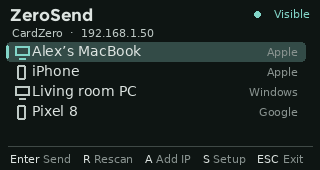
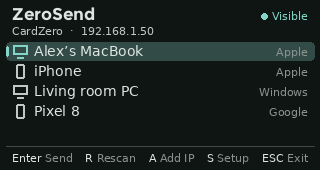
Align the UI to one grid
Text now sits on baselines and lines up by its ink edges: a 12/308 px
text margin, highlights, boxes and the footer rule on 6/314, row text and
right-hand details on one baseline, the status label on the title's
baseline with its dot centred on the capitals, icons centred in a 16 px
column, and footers with four or more hints spread to both margins.
Messages wrap at spaces. New screenshots and social preview.

diff --git a/app/app.py b/app/app.py
@@ -81,6 +81,10 @@ GREEN = ACCENT        # done / visible: LocalSend shows success in its primary c
 YELLOW = '#ffb74d'    # warnings (LocalSend uses orange)
 RED = '#ffb4ab'       # error
 VISIBLE = 5
+L, R = 12, 308              # text margins (ink edges)
+BOX_L, BOX_R = 6, 314      # highlights, boxes, footer rule
+ROW_TOP, ROW_H = 42, 20     # list rows
+FOOT = 162                 # footer baseline
 
 
 def log(*a):
@@ -953,19 +957,22 @@ class App:
                 self.fonts[key] = ImageFont.truetype(FONT, size)
         return self.fonts[key]
 
-    def text(self, d, xy, s, size=14, fill=FG, bold=False, max_width=None, anchor_right=False):
-        """Draw text; non-Latin text uses the CJK font, long text is shortened with …"""
+    def text(self, d, xy, s, size=14, fill=FG, bold=False, max_width=None, anchor_right=False, kind=None):
+        """Draw text on a baseline. xy is (left ink edge, baseline), or (right ink edge, baseline) with
+        anchor_right, so text lines up to the pixel with the grid whatever its first or last glyph.
+        Non-Latin text uses the CJK font, long text is shortened with …  Returns the ink width."""
         cjk = any(ord(c) > 0x2FF and not 0x2000 <= ord(c) <= 0x2BFF for c in s)
-        font = self.font('cjk', size) if cjk else self.font('bold' if bold else 'regular', size)
+        font = self.font('cjk', size) if cjk else self.font(kind or ('bold' if bold else 'regular'), size)
         if max_width is not None and d.textlength(s, font=font) > max_width:
             while s and d.textlength(s + '…', font=font) > max_width:
                 s = s[:-1]
             s += '…'
+        if not s:
+            return 0
+        x0, _, x1, _ = d.textbbox((0, 0), s, font=font, anchor='ls')
         x, y = xy
-        if anchor_right:
-            x -= d.textlength(s, font=font)
-        d.text((x, y - (2 if cjk else 0)), s, font=font, fill=fill)
-        return d.textlength(s, font=font)
+        d.text((x - x1 if anchor_right else x - x0, y), s, font=font, fill=fill, anchor='ls')
+        return x1 - x0
 
     def toast(self, text, colour=MUTED, seconds=4):
         self.message, self.message_colour = text, colour
@@ -978,66 +985,75 @@ class App:
         return self.addresses[0][1] if self.addresses else 'no Wi-Fi'
 
     # ---- drawing helpers
+    # Layout grid: all text runs between x = L and x = R (ink edges); highlights, boxes and the footer
+    # rule run between BOX_L and BOX_R; rows are ROW_H tall from ROW_TOP; every text sits on a baseline.
     def header(self, d, title, sub, status=None):
-        d.text((10, 4), title, font=self.font('title', 17), fill=FG)
+        status_w = 0
         if status:
             label, colour = status
-            w = d.textlength(label, font=self.font('regular', 11))
-            d.ellipse((300 - w - 10, 11, 300 - w - 4, 17), fill=colour)
-            d.text((310 - w, 7), label, font=self.font('regular', 11), fill=colour)
-        self.text(d, (12, 26), sub, size=11, fill=MUTED, max_width=296)
+            w = self.text(d, (R, 20), label, size=11, fill=colour, anchor_right=True)
+            cx = R - w - 8
+            d.ellipse((cx - 3, 13, cx + 3, 19), fill=colour)       # centred on the label's capitals
+            status_w = w + 14
+        self.text(d, (L, 20), title, size=17, kind='title', max_width=R - L - status_w - 12)
+        self.text(d, (L, 35), sub, size=11, fill=MUTED, max_width=R - L)
 
     def footer(self, d, keys):
-        d.line((8, 146, 312, 146), fill=RULE)
+        d.line((BOX_L, 146, BOX_R, 146), fill=RULE)
         if self.message and time.monotonic() < self.message_until:
-            self.text(d, (10, 152), self.message, size=11, fill=self.message_colour, max_width=300)
+            self.text(d, (L, FOOT), self.message, size=11, fill=self.message_colour, max_width=R - L)
             return
-        x, small = 10, self.font('regular', 11)
-        for key, action in keys:
-            width = d.textlength(key + ' ' + action, font=small)
-            if x + width > 312:
-                break
-            d.text((x, 152), key, font=small, fill=FG)
-            x += d.textlength(key + ' ', font=small)
-            d.text((x, 152), action, font=small, fill=FAINT)
-            x += d.textlength(action, font=small) + 12
+        small = self.font('regular', 11)
+        items = [(k, a, d.textlength(k + ' ' + a, font=small)) for k, a in keys]
+        while len(items) > 1 and sum(w for *_, w in items) + 10 * (len(items) - 1) > R - L:
+            items.pop(-2 if len(items) > 2 else -1)              # keep the last hint (Back / Exit)
+        total = sum(w for *_, w in items)
+        # Four or more hints are spread edge to edge so the bar ends on the right margin; fewer keep a
+        # fixed gap from the left margin.
+        gap = (R - L - total) / (len(items) - 1) if len(items) >= 4 else 16
+        x = L - d.textbbox((0, 0), items[0][0], font=small, anchor='ls')[0]
+        for key, action, width in items:
+            d.text((x, FOOT), key, font=small, fill=FG, anchor='ls')
+            d.text((x + d.textlength(key + ' ', font=small), FOOT), action, font=small, fill=FAINT, anchor='ls')
+            x += width + gap
 
     def row(self, d, slot, selected, left, right='', left_colour=FG, right_colour=FAINT, marker=None):
-        y = 43 + 20 * slot
+        top = ROW_TOP + ROW_H * slot
         if selected:
-            d.rounded_rectangle((6, y - 1, 305, y + 18), radius=4, fill=ROW)
-            d.rounded_rectangle((6, y + 2, 8, y + 15), radius=1, fill=ACCENT)
-        x = 14
+            d.rounded_rectangle((BOX_L, top, BOX_R, top + ROW_H - 2), radius=4, fill=ROW)
+            d.rounded_rectangle((BOX_L, top + 4, BOX_L + 2, top + ROW_H - 6), radius=1, fill=ACCENT)
+        base = top + 14                     # capitals centred in the highlight
+        x = L
         if marker:
-            marker(d, x, y)
-            x += 18
+            marker(d, x + 8, top + 9)       # icons are drawn round the centre of a 16 px cell
+            x += 22
         right_w = 0
         if right:
-            right_w = self.text(d, (298, y + 2), right, size=11, fill=right_colour, anchor_right=True,
-                                max_width=170)
-        self.text(d, (x, y), left, size=14, fill=left_colour, max_width=298 - x - right_w - 8)
+            right_w = self.text(d, (R, base), right, size=11, fill=right_colour, anchor_right=True, max_width=170)
+        self.text(d, (x, base), left, size=14, fill=left_colour, max_width=R - x - right_w - (10 if right else 0))
 
     def scrollbar(self, d, count, top):
         if count > VISIBLE:
-            h = 100 * VISIBLE // count
-            y0 = 42 + (100 - h) * top // (count - VISIBLE)
-            d.rounded_rectangle((311, 42, 313, 142), radius=1, fill=RULE)
-            d.rounded_rectangle((311, y0, 313, y0 + h), radius=1, fill=FAINT)
+            span = ROW_H * VISIBLE - 2
+            h = span * VISIBLE // count
+            y0 = ROW_TOP + (span - h) * top // (count - VISIBLE)
+            d.rounded_rectangle((316, ROW_TOP, 318, ROW_TOP + span), radius=1, fill=RULE)
+            d.rounded_rectangle((316, y0, 318, y0 + h), radius=1, fill=FAINT)
 
     @staticmethod
     def device_icon(kind, colour):
-        def draw(d, x, y):
+        def draw(d, cx, cy):
             if kind == 'mobile':
-                d.rounded_rectangle((x + 3, y + 2, x + 11, y + 16), radius=2, outline=colour, width=2)
+                d.rounded_rectangle((cx - 4, cy - 7, cx + 4, cy + 7), radius=2, outline=colour, width=2)
             elif kind == 'web':
-                d.ellipse((x + 1, y + 2, x + 15, y + 16), outline=colour, width=2)
-                d.line((x + 1, y + 9, x + 15, y + 9), fill=colour)
+                d.ellipse((cx - 7, cy - 7, cx + 7, cy + 7), outline=colour, width=2)
+                d.line((cx - 7, cy, cx + 7, cy), fill=colour)
             elif kind in ('server', 'headless'):
-                d.rectangle((x + 1, y + 3, x + 14, y + 8), outline=colour, width=2)
-                d.rectangle((x + 1, y + 10, x + 14, y + 15), outline=colour, width=2)
+                d.rectangle((cx - 7, cy - 6, cx + 7, cy - 1), outline=colour, width=2)
+                d.rectangle((cx - 7, cy + 1, cx + 7, cy + 6), outline=colour, width=2)
             else:
-                d.rectangle((x + 1, y + 3, x + 15, y + 12), outline=colour, width=2)
-                d.line((x + 5, y + 15, x + 11, y + 15), fill=colour, width=2)
+                d.rectangle((cx - 7, cy - 6, cx + 7, cy + 3), outline=colour, width=2)
+                d.line((cx - 3, cy + 6, cx + 3, cy + 6), fill=colour, width=2)
         return draw
 
     # ---- screens
@@ -1061,16 +1077,13 @@ class App:
         self.selected = min(self.selected, max(0, len(peers) - 1))
         self.top = max(min(self.top, self.selected), self.selected - VISIBLE + 1, 0)
         if not peers:
-            lines = [('Looking for nearby devices…', FG),
-                     ('Open LocalSend on a phone or computer', MUTED),
-                     ('on the same Wi-Fi. This Cardputer shows', MUTED),
-                     (f'up there as “{self.core.config["alias"]}”.', MUTED),
-                     ('A adds a device by IP (e.g. Tailscale).', FAINT)]
-            if self.core.error:
-                lines = [(self.core.error, RED)] + lines[1:]
-            for i, (line, colour) in enumerate(lines):
-                self.text(d, (12, 44 + i * 19 - (0 if i == 0 else 2)), line, size=14 if i == 0 else 12,
-                          fill=colour, max_width=296)
+            first = (self.core.error, RED) if self.core.error else ('Looking for nearby devices…', FG)
+            self.text(d, (L, 58), first[0], size=14, fill=first[1], max_width=R - L)
+            for i, line in enumerate(['Open LocalSend on a phone or computer',
+                                      'on the same Wi-Fi. This Cardputer shows',
+                                      f'up there as “{self.core.config["alias"]}”.']):
+                self.text(d, (L, 78 + i * 16), line, size=12, fill=MUTED, max_width=R - L)
+            self.text(d, (L, 134), 'A adds a device by IP (e.g. Tailscale).', size=12, fill=FAINT, max_width=R - L)
         for slot, i in enumerate(range(self.top, min(self.top + VISIBLE, len(peers)))):
             p = peers[i]
             right = p.ip if not p.model else f'{p.model}'
@@ -1105,20 +1118,21 @@ class App:
         self.header(d, 'Send to ' + self.target.alias if len(self.target.alias) < 14 else 'Send files', sub)
         entries = b['entries']
         if not entries:
-            self.text(d, (14, 46), 'Empty folder' if not b.get('error') else b['error'], size=13, fill=MUTED)
+            self.text(d, (L, 58), 'Empty folder' if not b.get('error') else b['error'], size=13, fill=MUTED,
+                      max_width=R - L)
         sel = b['selected']
         b['top'] = max(min(b['top'], sel), sel - VISIBLE + 1, 0)
         for slot, i in enumerate(range(b['top'], min(b['top'] + VISIBLE, len(entries)))):
             path, is_dir, size = entries[i]
-            def marker(d, x, y, path=path, is_dir=is_dir):
+            def marker(d, cx, cy, path=path, is_dir=is_dir, selected=i == sel):
                 if path in marked:
-                    d.rounded_rectangle((x + 1, y + 3, x + 13, y + 15), radius=3, fill=GREEN)
-                    d.line((x + 4, y + 9, x + 6, y + 12, x + 11, y + 5), fill=ON_ACCENT, width=2)
+                    d.rounded_rectangle((cx - 6, cy - 6, cx + 6, cy + 6), radius=3, fill=GREEN)
+                    d.line((cx - 3, cy, cx - 1, cy + 3, cx + 4, cy - 3), fill=ON_ACCENT, width=2)
                 elif is_dir:
-                    d.polygon((x + 1, y + 4, x + 6, y + 4, x + 8, y + 6, x + 14, y + 6, x + 14, y + 15,
-                               x + 1, y + 15), outline=ACCENT if i == sel else MUTED)
+                    d.polygon((cx - 7, cy - 6, cx - 2, cy - 6, cx, cy - 4, cx + 7, cy - 4, cx + 7, cy + 6,
+                               cx - 7, cy + 6), outline=ACCENT if selected else MUTED)
                 else:
-                    d.rectangle((x + 3, y + 3, x + 12, y + 15), outline=FAINT)
+                    d.rectangle((cx - 5, cy - 6, cx + 5, cy + 6), outline=FAINT)
             name = path.name + ('/' if is_dir else '') if path.name else '..'
             self.row(d, slot, i == sel, name, '' if is_dir else human_size(size),
                      left_colour=FG, marker=marker)
@@ -1132,16 +1146,15 @@ class App:
     def draw_input(self, d):
         box = self.input
         self.header(d, box['title'], box.get('hint', ''))
-        d.rounded_rectangle((8, 42, 312, 140), radius=5, outline=RULE)
+        d.rounded_rectangle((BOX_L, 42, BOX_R, 140), radius=5, outline=RULE)
         text = box['text']
         lines, line = [], ''
-        font_size = 14
         cjk = any(ord(c) > 0x2FF for c in text)
-        font = self.font('cjk' if cjk else 'regular', font_size)
+        font = self.font('cjk' if cjk else 'regular', 14)
         for paragraph in text.split('\n'):
             line = ''
             for ch in paragraph:
-                if d.textlength(line + ch, font=font) > 288:
+                if d.textlength(line + ch, font=font) > R - L - 4:
                     lines.append(line)
                     line = ''
                 line += ch
@@ -1149,13 +1162,13 @@ class App:
         lines = lines[-5:]
         cursor_on = int(time.monotonic() * 2) % 2 == 0
         for i, line in enumerate(lines):
-            y = 47 + i * 18
-            d.text((14, y - (2 if cjk else 0)), line, font=font, fill=FG)
+            base = 59 + i * 18
+            d.text((L, base), line, font=font, fill=FG, anchor='ls')
             if i == len(lines) - 1 and cursor_on:
-                x = 15 + d.textlength(line, font=font)
-                d.line((x, y + 1, x, y + 16), fill=ACCENT, width=2)
+                x = L + 1 + d.textlength(line, font=font)
+                d.line((x, base - 13, x, base + 3), fill=ACCENT, width=2)
         if self.shift_sticky or self.shift:
-            self.text(d, (300, 124), '⇧', size=12, fill=ACCENT, anchor_right=True)
+            self.text(d, (R, 134), '⇧', size=12, fill=ACCENT, anchor_right=True)
         self.footer(d, [('Enter', box.get('ok', 'OK')), ('⌫', 'Delete'), ('Sym', 'Symbols'), ('ESC', 'Cancel')])
 
     def draw_incoming(self, d):
@@ -1169,16 +1182,17 @@ class App:
         self.header(d, 'Incoming', f'{alias}' + (f'  ·  {model}' if model else '') + f'  ·  {inc.ip}',
                     ('Waiting', YELLOW))
         count = len(inc.files)
-        self.text(d, (12, 44), f'{count} file{"s" if count != 1 else ""}  ·  {human_size(total)}', size=15,
-                  fill=FG, bold=True)
+        self.text(d, (L, 59), f'{count} file{"s" if count != 1 else ""}  ·  {human_size(total)}', size=15,
+                  bold=True)
         for i, f in enumerate(inc.files[:3]):
-            self.text(d, (14, 66 + i * 17), safe_relative(f['name']).name, size=12, fill=MUTED, max_width=220)
-            self.text(d, (298, 67 + i * 17), human_size(f['size']), size=11, fill=FAINT, anchor_right=True)
+            base = 79 + i * 17
+            w = self.text(d, (R, base), human_size(f['size']), size=11, fill=FAINT, anchor_right=True)
+            self.text(d, (L, base), safe_relative(f['name']).name, size=12, fill=MUTED, max_width=R - L - w - 10)
         if count > 3:
-            self.text(d, (14, 117), f'+ {count - 3} more', size=12, fill=FAINT)
+            self.text(d, (L, 130), f'+ {count - 3} more', size=12, fill=FAINT)
         free = shutil.disk_usage(DOWNLOADS if DOWNLOADS.exists() else HOME).free
         if total > free:
-            self.text(d, (120, 117), f'Only {human_size(free)} free', size=12, fill=RED)
+            self.text(d, (R, 130), f'Only {human_size(free)} free', size=12, fill=RED, anchor_right=True)
         self.footer(d, [('Y', 'Accept'), ('N', 'Decline')])
 
     def draw_transfer(self, d):
@@ -1198,32 +1212,32 @@ class App:
             headline = 'Text message'
         else:
             headline = f'{count} file{"s" if count != 1 else ""}  ·  {human_size(t.total)}'
-        self.text(d, (12, 44), headline, size=15, fill=FG, bold=True)
+        self.text(d, (L, 59), headline, size=15, bold=True)
         if t.state == 'waiting':
-            self.text(d, (12, 68), f'Waiting for {t.peer} to accept…', size=12, fill=MUTED, max_width=296)
+            self.text(d, (L, 79), f'Waiting for {t.peer} to accept…', size=12, fill=MUTED, max_width=R - L)
         elif t.state == 'connecting':
-            self.text(d, (12, 68), 'Connecting…', size=12, fill=MUTED)
+            self.text(d, (L, 79), 'Connecting…', size=12, fill=MUTED)
         elif t.state == 'sending':
-            self.text(d, (12, 66), f'{t.file_index}/{count}  {t.current}', size=12, fill=MUTED, max_width=296)
+            w = self.text(d, (R, 79), f'{t.file_index}/{count}', size=11, fill=FAINT, anchor_right=True)
+            self.text(d, (L, 79), t.current, size=12, fill=MUTED, max_width=R - L - w - 10)
         if t.state in ('sending', 'done') and t.total:
             fraction = min(1.0, t.done_bytes / t.total)
-            d.rounded_rectangle((12, 88, 308, 98), radius=5, fill=TRACK)
+            d.rounded_rectangle((L, 88, R, 97), radius=5, fill=TRACK)
             if fraction > 0:
-                d.rounded_rectangle((12, 88, 12 + max(10, int(296 * fraction)), 98), radius=5,
+                d.rounded_rectangle((L, 88, L + max(10, int((R - L) * fraction)), 97), radius=5,
                                     fill=GREEN if t.state == 'done' else ACCENT)
-            info = f'{human_size(t.done_bytes)} / {human_size(t.total)}'
+            self.text(d, (L, 113), f'{human_size(t.done_bytes)} / {human_size(t.total)}', size=12, fill=MUTED)
             if t.state == 'sending' and t.speed:
-                info += f'  ·  {human_size(t.speed)}/s'
-            self.text(d, (12, 104), info, size=12, fill=MUTED)
+                self.text(d, (R, 113), f'{human_size(t.speed)}/s', size=12, fill=MUTED, anchor_right=True)
         if t.state == 'done':
             if sending:
                 text = 'Delivered' if getattr(t, 'text', None) is not None else 'All files sent'
             else:
                 text = 'Saved to ' + str(DOWNLOADS).replace(str(HOME), '~', 1)
-            self.text(d, (12, 122), text, size=12, fill=GREEN, max_width=296)
+            self.text(d, (L, 133), text, size=12, fill=GREEN, max_width=R - L)
         elif t.finished():
             text = t.error or {'declined': f'{t.peer} declined', 'cancelled': 'Cancelled'}.get(t.state, t.state)
-            self.text(d, (12, 122), text, size=12, fill=colours.get(t.state, RED), max_width=296)
+            self.text(d, (L, 133), text, size=12, fill=colours.get(t.state, RED), max_width=R - L)
         if t.finished():
             self.footer(d, [('Enter', 'OK')])
         else:
@@ -1237,14 +1251,17 @@ class App:
         for paragraph in text.split('\n'):
             line = ''
             for ch in paragraph:
-                if d.textlength(line + ch, font=font) > 292:
-                    lines.append(line)
-                    line = ''
-                line += ch
+                if d.textlength(line + ch, font=font) > R - L:
+                    cut = line.rfind(' ') + 1               # wrap at the last space; long words and CJK by char
+                    if cut <= 0 or ch == ' ':
+                        cut = len(line)
+                    lines.append(line[:cut].rstrip())
+                    line = line[cut:].lstrip() if ch != ' ' else ''
+                line += ch if (line or ch != ' ') else ''
             lines.append(line)
         self.message_lines = len(lines)
         for i, line in enumerate(lines[scroll:scroll + 6]):
-            d.text((12, 41 + i * 17), line, font=font, fill=FG)
+            d.text((L, 56 + i * 17), line, font=font, fill=FG, anchor='ls')
         keys = [('Enter', 'Close'), ('S', 'Save as file')]
         if len(lines) > 6:
             keys.insert(1, ('F/X', 'Scroll'))
